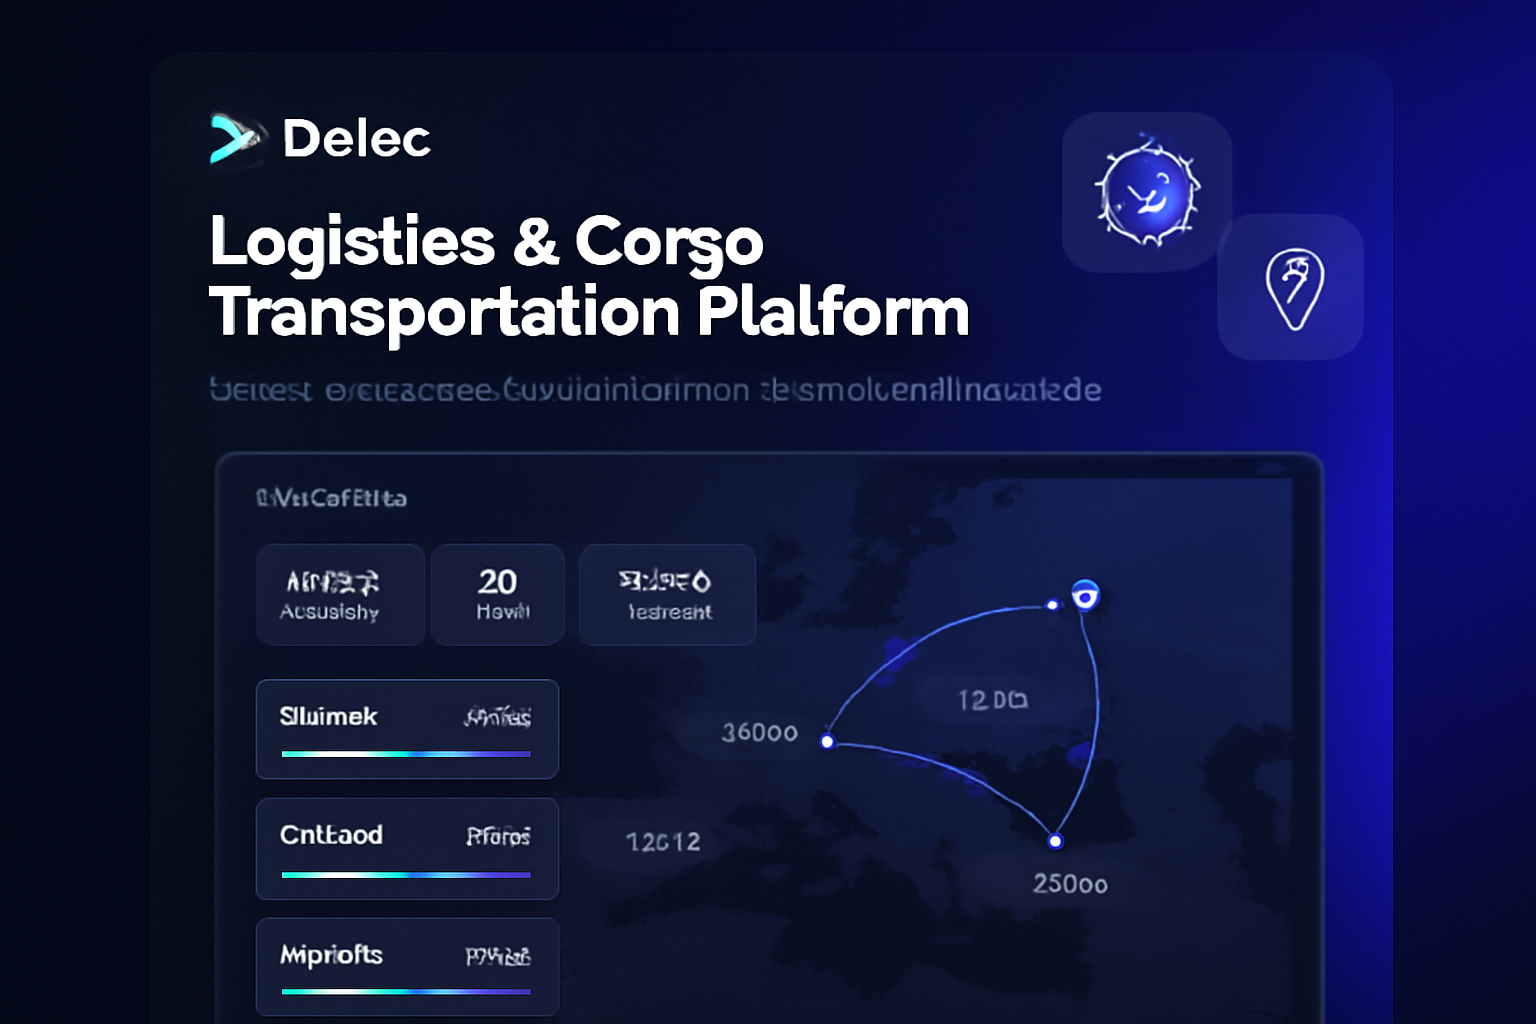
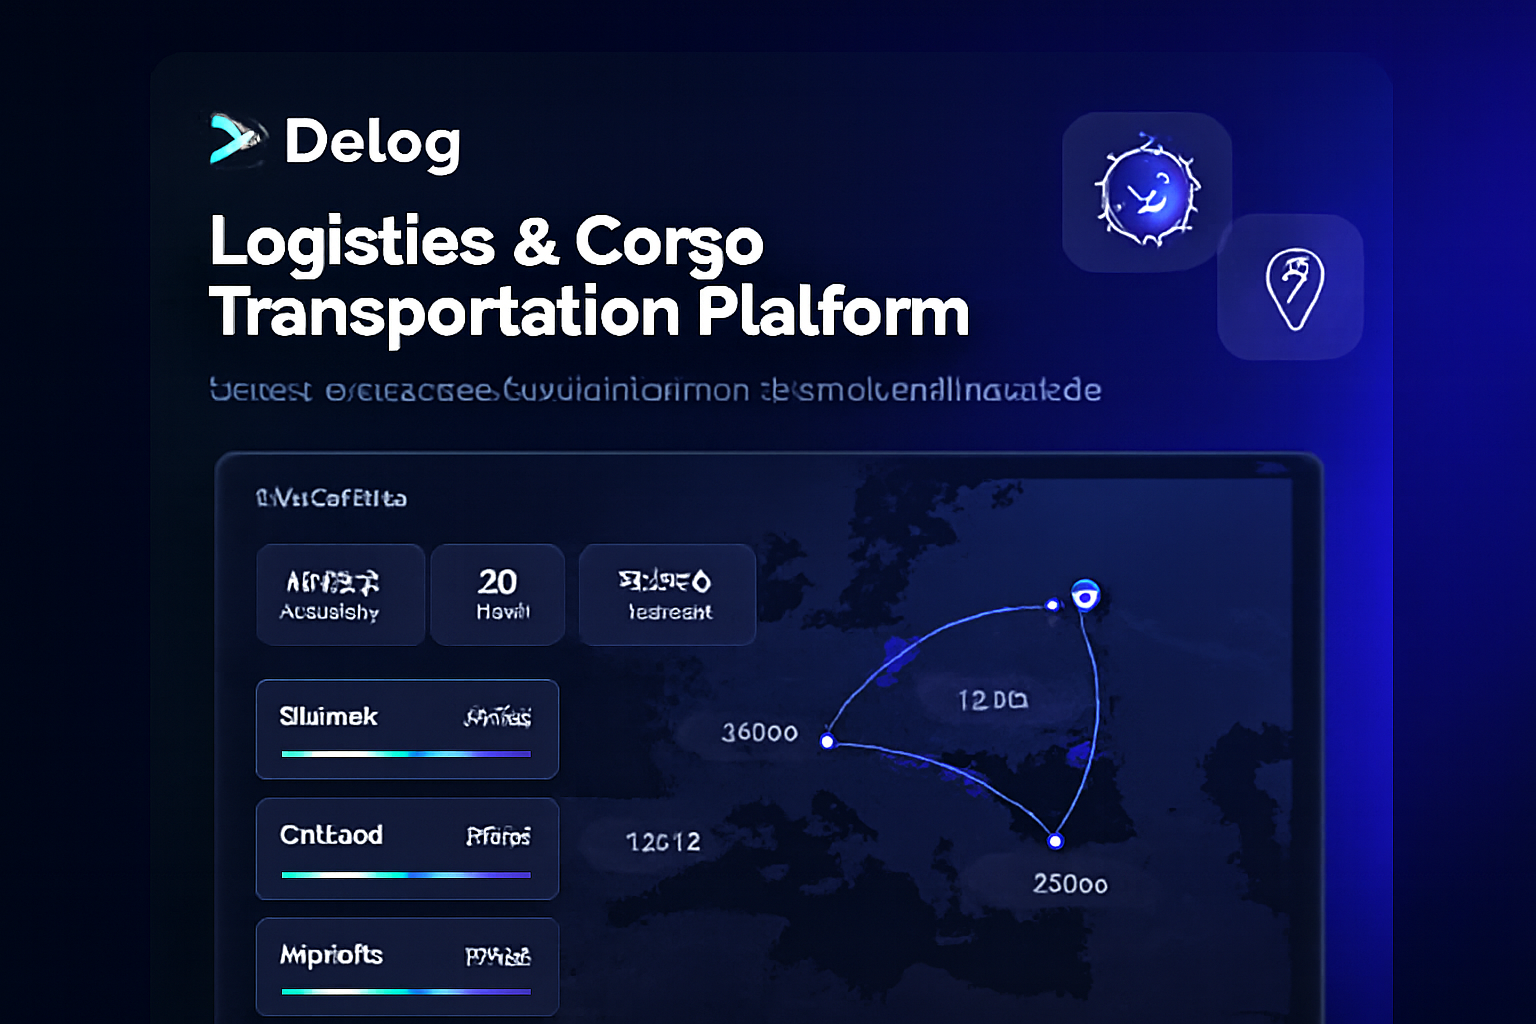
delog

diff --git a/components/Footer.tsx b/components/Footer.tsx
@@ -12,7 +12,7 @@ export default function Footer() {
                     <div>
                         <div className="flex items-center space-x-2 mb-4">
                             <Truck className="h-8 w-8 text-primary-400" />
-                            <span className="text-2xl font-bold">Deloc</span>
+                            <span className="text-2xl font-bold">Delog</span>
                         </div>
                         <p className="text-gray-400 mb-4">
                             Decentralized logistics marketplace where anyone can order transportation
@@ -69,7 +69,7 @@ export default function Footer() {
                 <div className="pt-8">
                     <div className="flex flex-col md:flex-row justify-between items-center">
                         <p className="text-gray-400 text-sm">
-                            © 2024 Deloc. All rights reserved.
+                            © 2024 Delog. All rights reserved.
                         </p>
                         <div className="flex space-x-6 mt-4 md:mt-0">
                             <Button variant="link" className="text-gray-400 hover:text-white p-0 h-auto text-sm">

diff --git a/app/layout.tsx b/app/layout.tsx
@@ -5,10 +5,10 @@ import './globals.css'
 const inter = Inter({ subsets: ['latin'] })
 
 export const metadata: Metadata = {
-    title: 'Deloc - Decentralized Logistics Marketplace',
+    title: 'Delog - Decentralized Logistics Marketplace',
     description: 'Anyone can order transportation of any product from anywhere to anywhere. Powered by crypto trackers, $DLOG coin, and blockchain verification.',
     keywords: 'logistics marketplace, crypto trackers, DLOG coin, play to earn, blockchain, transportation',
-    authors: [{ name: 'Deloc Team' }],
+    authors: [{ name: 'Delog Team' }],
 }
 
 export default function RootLayout({

diff --git a/components/Hero.tsx b/components/Hero.tsx
@@ -119,7 +119,7 @@ export default function Hero() {
                         <div className="relative bg-white/5 backdrop-blur-xl rounded-3xl border border-white/20 p-4 shadow-2xl overflow-hidden">
                             <Image
                                 src={getImagePath("/images/hero-dashboard-mockup.png")}
-                                alt="Deloc Dashboard Interface"
+                                alt="Delog Dashboard Interface"
                                 width={600}
                                 height={400}
                                 className="w-full h-auto rounded-2xl"

diff --git a/components/Contact.tsx b/components/Contact.tsx
@@ -30,7 +30,7 @@ export default function Contact() {
                         <div className="space-y-4 mb-8">
                             <div className="flex items-center gap-4 text-primary-100">
                                 <Mail className="h-5 w-5" />
-                                <span>contact@deloc.com</span>
+                                <span>contact@delog.com</span>
                             </div>
                             <div className="flex items-center gap-4 text-primary-100">
                                 <Phone className="h-5 w-5" />

diff --git a/components/Header.tsx b/components/Header.tsx
@@ -14,7 +14,7 @@ export default function Header() {
                 <div className="flex justify-between items-center py-4">
                     <div className="flex items-center space-x-2">
                         <Truck className="h-8 w-8 text-primary-600" />
-                        <span className="text-2xl font-bold text-gray-900">Deloc</span>
+                        <span className="text-2xl font-bold text-gray-900">Delog</span>
                     </div>
 
                     <nav className="hidden md:flex items-center space-x-8">

diff --git a/lib/utils.ts b/lib/utils.ts
@@ -9,6 +9,6 @@ export function getImagePath(path: string): string {
   // Handle image paths for GitHub Pages deployment
   // The basePath from next.config.js is automatically handled by Next.js for most assets,
   // but we need to manually add it for dynamic image paths
-  const basePath = process.env.NODE_ENV === 'production' ? '/deloc' : ''
+  const basePath = process.env.NODE_ENV === 'production' ? '/delog' : ''
   return `${basePath}${path}`
 }

diff --git a/next.config.js b/next.config.js
@@ -13,8 +13,8 @@ const nextConfig = {
         ],
     },
     // Commented out for development - uncomment for GitHub Pages
-    // basePath: '/deloc',
-    // assetPrefix: '/deloc',
+    // basePath: '/delog',
+    // assetPrefix: '/delog',
 }
 
 module.exports = nextConfig

diff --git a/README.md b/README.md
@@ -1,6 +1,6 @@
-# Deloc Landing Page
+# Delog Landing Page
 
-A modern, responsive landing page for Deloc - a smart cargo transportation platform that connects drivers across Europe and Asia using GNSS tracking and blockchain confirmation.
+A modern, responsive landing page for Delog - a smart cargo transportation platform that connects drivers across Europe and Asia using GNSS tracking and blockchain confirmation.
 
 ## Features
 
@@ -58,7 +58,7 @@ npm start
 ## Project Structure
 
 ```
-deloc-landing/
+delog-landing/
 ├── app/
 │   ├── globals.css      # Global styles
 │   ├── layout.tsx       # Root layout
@@ -101,4 +101,4 @@ MIT License - see LICENSE file for details.
 
 ## GitHub Pages
 
-This project is configured for GitHub Pages deployment at: https://Alherd1208.github.io/deloc
+This project is configured for GitHub Pages deployment at: https://Alherd1208.github.io/delog
